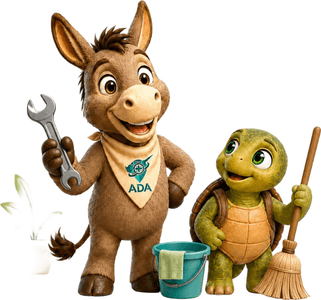
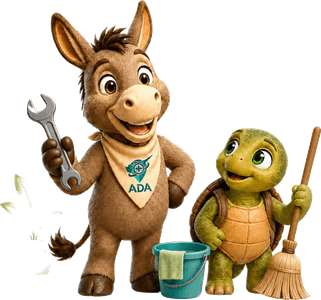
Oli bar option B (full scene) + tutorial waits for the weather chip
- The scene fills the card; art framed in the right 40% (right-anchored, no crop), each on
  its own soft ground. Welcome/services/pets originals were opaque white: cut out by an
  edge-connected flood fill with a feathered edge
- Deep-teal fade (#084B4A 95%) solid to 56%, smoothstep to 0 at 62%; title 20/700 and a
  glass pill 13/500 sit only on the solid part: 8.66:1 / 5.68:1 over white (bound for
  every scene). primaryDark gave the pill 4.67:1, too thin
- Shorter pill copy outside Turkish, fr bar title 'Parlez à Oli' (hrOliBarTitle)
- Tutorial: waits up to 3s for the weather chip; if it never renders, that step is shown
  alone on a later launch instead of being lost

diff --git a/components/home/redesign/OliBar.js b/components/home/redesign/OliBar.js
@@ -1,37 +1,52 @@
 import { useEffect, useRef, useState } from 'react'
 import { View, Text, Image, Animated, TouchableOpacity, StyleSheet, AppState, AccessibilityInfo, useWindowDimensions } from 'react-native'
 import { Ionicons } from '@expo/vector-icons'
-import { colors, type, radii, press } from '../../../constants/theme'
+import { colors, category, radii, press } from '../../../constants/theme'
 import { t } from '../../../constants/i18n'
 
-// ─── The Oli bar (Home v3) ───────────────────────────────────────────────────
-// The whole bar opens the Oli sheet (search lives there, unchanged). Left: "Oli'ye sor" and
-// its subline on primary (white on #0E7C7B = 5.01:1). Right: a white panel that crossfades
-// through the Oli & Maki scenes.
+// ─── The Oli bar, "full scene" (Home v3, option B) ───────────────────────────
+// One card; the rotating Oli & Maki scene fills it, the text sits on a deep-teal fade on the
+// left, and the whole card opens the Oli sheet (search lives there, unchanged).
 //
-// Scenes are the 1080px ORIGINALS, trimmed to the art and exported 300px tall
-// (assets/oli-scenes/). The 360px module badges would draw ~252px tall at 3x — upscaled and
-// soft; these never are, zoom included. Only LIVE modules' scenes: exchange has no module
-// and insurance is dark, and a scene is a quiet promise of a feature.
+// SCENES are the 1080px originals, trimmed to the art and exported 300px tall. They are
+// cut-outs, so each scene = its own soft ground + the art, framed in the RIGHT 40% of the
+// card: right-anchored, feet on the bottom edge, scaled down only if it would be wider than
+// that zone. No scene needs cropping, so none is dropped. Exchange (no module) and insurance
+// (dark, and no 1080px original) are left out: a scene is a quiet promise of a feature.
 //
-// Motion: 4s per scene, 600ms crossfade, a 1.00 → 1.05 zoom across each scene's life. It
-// PAUSES when the bar is scrolled away (`active`), when the app is in the background, and
-// never starts under Reduce Motion (one static scene, no dots advancing).
-export const OLI_BAR_H = 104
-// 164, not ~150: "Demandez à Oli" / "Pregunta a Oli" and most sublines at font scale 1.3 did
-// not fit 150 (labels:check). Title 17/22 × 1 line, subline 12/16 × 2 lines; height is checked too.
-export const OLI_TEXT_W = 164
-export const OLI_FONT_CAP = 1.1   // "Demandez à Oli" is 148.6pt at 1.15 in a 148pt column; 142.1 at 1.1
+// ─── THE FADE CARRIES THE CONTRAST, SO THE TEXT MUST STAY ON ITS SOLID PART ─
+// FADE_COLOR at FADE_ALPHA is solid to FADE_HOLD of the width, then a smoothstep ramp
+// (assets/oli-scenes/fade-ramp.png) reaches 0 at FADE_END. Over a PURE WHITE pixel — the
+// bound for every scene — white text is 8.66:1 on the fade and 5.68:1 on the glass pill
+// (white 16% on top). check-hero-contrast reads these constants; labels:check proves the
+// title and the pill end inside the solid part (TEXT_LEFT … FADE_HOLD·width) in 9 locales.
+// primaryDark (#0A5E5D) gave the pill only 4.67:1 — too thin a margin — hence the deeper teal.
+//
+// Motion: 4s per scene, 600ms crossfade, a 1.00 → 1.05 zoom on the art. PAUSES when scrolled
+// away (`active`), in the background, and never starts under Reduce Motion (one still scene).
+export const OLI_BAR_H = 110
+export const FADE_COLOR = '#084B4A'
+export const FADE_ALPHA = 0.95
+export const FADE_HOLD = 0.56
+export const FADE_END = 0.62
+export const ART_ZONE = 0.4
+export const TEXT_LEFT = 16
+export const PILL_PAD = 10
+export const OLI_FONT_CAP = 1.1
 export const OLI_FONT_CAP_NARROW = 1.0
+const rgba = (hex, a) => `rgba(${[1, 3, 5].map(i => parseInt(hex.slice(i, i + 2), 16)).join(',')},${a})`
+const PAGE = 16   // HomeScreen rBelow paddingHorizontal: the card is window − 2·16 wide
+
 const SCENES = [
-  require('../../../assets/oli-scenes/welcome.png'),
-  require('../../../assets/oli-scenes/health.png'),
-  require('../../../assets/oli-scenes/emergency.png'),
-  require('../../../assets/oli-scenes/events.png'),
-  require('../../../assets/oli-scenes/accommodation.png'),
-  require('../../../assets/oli-scenes/services.png'),
-  require('../../../assets/oli-scenes/pets.png'),
+  { src: require('../../../assets/oli-scenes/welcome.png'),       bg: category.city.bg },
+  { src: require('../../../assets/oli-scenes/health.png'),        bg: category.health.bg },
+  { src: require('../../../assets/oli-scenes/emergency.png'),     bg: category.health.bg },
+  { src: require('../../../assets/oli-scenes/events.png'),        bg: category.explore.bg },
+  { src: require('../../../assets/oli-scenes/accommodation.png'), bg: category.homeLife.bg },
+  { src: require('../../../assets/oli-scenes/services.png'),      bg: category.homeLife.bg },
+  { src: require('../../../assets/oli-scenes/pets.png'),          bg: colors.primaryLight },
 ]
+const RAMP = require('../../../assets/oli-scenes/fade-ramp.png')
 const HOLD = 4000
 const FADE = 600
 const ZOOM = 1.05
@@ -56,7 +71,19 @@ function useForeground() {
   return fg
 }
 
-function SceneCarousel({ active }) {
+// Right-anchored in the art zone, feet on the bottom edge, never wider than the zone.
+function frame(src, cardW) {
+  const { width, height } = Image.resolveAssetSource(src)
+  const aspect = width / height
+  const maxW = cardW * ART_ZONE - 10
+  const h = Math.min(OLI_BAR_H - 6, maxW / aspect)
+  return { position: 'absolute', right: 10, bottom: 0, height: h, width: h * aspect }
+}
+
+export default function OliBar({ lang, onPress, active = true, barRef }) {
+  const { width: winW } = useWindowDimensions()
+  const cardW = winW - PAGE * 2
+  const cap = winW < 350 ? OLI_FONT_CAP_NARROW : OLI_FONT_CAP
   const reduce = useReduceMotion()
   const fg = useForeground()
   const running = active && fg && !reduce
@@ -66,7 +93,6 @@ function SceneCarousel({ active }) {
 
   useEffect(() => {
     if (!running) return
-    // The zoom runs across the scene's whole life (hold + fade out), so it never stops mid-view.
     const zoom = Animated.timing(scale[idx], { toValue: ZOOM, duration: HOLD + FADE, useNativeDriver: true })
     zoom.start()
     const timer = setTimeout(() => {
@@ -80,48 +106,52 @@ function SceneCarousel({ active }) {
     return () => { clearTimeout(timer); zoom.stop() }
   }, [running, idx])
 
+  const title = t('hrOliBarTitle', lang)
+  const pill = t('hrOliAskSub', lang)
   return (
-    <View style={s.panel} pointerEvents="none">
-      {SCENES.map((src, i) => (
-        <Animated.Image key={i} source={src} resizeMode="contain" accessibilityIgnoresInvertColors
-          style={[s.scene, { opacity: opacity[i], transform: [{ scale: scale[i] }] }]} />
+    <TouchableOpacity ref={barRef} collapsable={false} onPress={onPress} activeOpacity={press.card}
+      accessibilityRole="button" accessibilityLabel={`${title}. ${pill}`} style={s.card}>
+      {SCENES.map((sc, i) => (
+        <Animated.View key={i} pointerEvents="none"
+          style={[StyleSheet.absoluteFill, { backgroundColor: sc.bg, opacity: opacity[i] }]}>
+          <Animated.Image source={sc.src} resizeMode="contain" accessibilityIgnoresInvertColors
+            style={[frame(sc.src, cardW), { transform: [{ scale: scale[i] }] }]} />
+        </Animated.View>
       ))}
+
+      <View pointerEvents="none" style={[s.fadeSolid, { width: `${FADE_HOLD * 100}%` }]} />
+      <Image source={RAMP} resizeMode="stretch" pointerEvents="none"
+        style={[s.fadeRamp, { left: `${FADE_HOLD * 100}%`, width: `${(FADE_END - FADE_HOLD) * 100}%` }]} />
+
+      <View style={[s.text, { width: `${FADE_HOLD * 100}%` }]} pointerEvents="none">
+        <Text style={s.title} numberOfLines={1} maxFontSizeMultiplier={cap}>{title}</Text>
+        <View style={s.pill}>
+          <Text style={s.pillText} numberOfLines={1} maxFontSizeMultiplier={cap}>{pill}</Text>
+          <Ionicons name="arrow-forward" size={14} color="#FFFFFF" />
+        </View>
+      </View>
+
       {!reduce && (
-        <View style={s.dots}>
+        <View style={s.dots} pointerEvents="none">
           {SCENES.map((_, i) => <View key={i} style={[s.dot, i === idx && s.dotOn]} />)}
         </View>
       )}
-    </View>
-  )
-}
-
-export default function OliBar({ lang, onPress, active = true, barRef }) {
-  const cap = useWindowDimensions().width < 350 ? OLI_FONT_CAP_NARROW : OLI_FONT_CAP
-  const title = t('homeOliTitle', lang)
-  const sub = t('hrOliAskSub', lang)
-  return (
-    <TouchableOpacity ref={barRef} collapsable={false} onPress={onPress} activeOpacity={press.card}
-      accessibilityRole="button" accessibilityLabel={`${title}. ${sub}`} style={s.bar}>
-      <View style={s.text}>
-        <Ionicons name="chatbubble-ellipses" size={22} color={colors.onPrimary} />
-        <Text style={s.title} numberOfLines={1} maxFontSizeMultiplier={cap}>{title}</Text>
-        <Text style={s.sub} numberOfLines={2} maxFontSizeMultiplier={cap}>{sub}</Text>
-      </View>
-      <SceneCarousel active={active} />
     </TouchableOpacity>
   )
 }
 
-const INSET = 6
 const s = StyleSheet.create({
-  bar:   { height: OLI_BAR_H, borderRadius: radii.widget, backgroundColor: colors.primary,
-           flexDirection: 'row', padding: INSET, overflow: 'hidden' },
-  text:  { width: OLI_TEXT_W - INSET, paddingLeft: 10, justifyContent: 'center', gap: 2 },
-  title: { ...type.sectionHeading, fontSize: 17, lineHeight: 22, color: colors.onPrimary, marginTop: 2 },
-  sub:   { ...type.meta, fontFamily: 'Inter_500Medium', color: colors.onPrimary },
-  panel: { flex: 1, borderRadius: radii.card, backgroundColor: colors.card, overflow: 'hidden' },
-  scene: { position: 'absolute', top: 6, bottom: 12, left: 6, right: 6, width: undefined, height: undefined },
-  dots:  { position: 'absolute', bottom: 5, left: 0, right: 0, flexDirection: 'row', justifyContent: 'center', gap: 4 },
-  dot:   { width: 4, height: 4, borderRadius: 2, backgroundColor: 'rgba(26,43,51,0.18)' },
-  dotOn: { backgroundColor: colors.primary, width: 10 },
+  card:      { height: OLI_BAR_H, borderRadius: radii.widget, overflow: 'hidden', backgroundColor: colors.primaryLight },
+  fadeSolid: { position: 'absolute', top: 0, bottom: 0, left: 0, backgroundColor: rgba(FADE_COLOR, FADE_ALPHA) },
+  fadeRamp:  { position: 'absolute', top: 0, bottom: 0, height: '100%' },
+  text:      { position: 'absolute', top: 0, bottom: 0, left: 0, paddingLeft: TEXT_LEFT, justifyContent: 'center', gap: 10 },
+  title:     { fontSize: 20, lineHeight: 26, fontFamily: 'Inter_700Bold', color: '#FFFFFF' },
+  pill:      { alignSelf: 'flex-start', flexDirection: 'row', alignItems: 'center', gap: 4,
+               paddingHorizontal: PILL_PAD, paddingVertical: 6, borderRadius: radii.pill,
+               backgroundColor: 'rgba(255,255,255,0.16)', borderWidth: 1, borderColor: 'rgba(255,255,255,0.28)' },
+  pillText:  { fontSize: 13, lineHeight: 17, fontFamily: 'Inter_500Medium', color: '#FFFFFF', flexShrink: 1 },
+  dots:      { position: 'absolute', right: 12, bottom: 8, flexDirection: 'row', gap: 3, paddingHorizontal: 5,
+               paddingVertical: 4, borderRadius: radii.pill, backgroundColor: rgba(FADE_COLOR, 0.45) },
+  dot:       { width: 4, height: 4, borderRadius: 2, backgroundColor: 'rgba(255,255,255,0.55)' },
+  dotOn:     { width: 9, backgroundColor: '#FFFFFF' },
 })

diff --git a/constants/i18n.js b/constants/i18n.js
@@ -80,7 +80,9 @@ const translations = {
     hrTileRoutes: "Walking routes",
     hrSoonBadge: "Soon",
     hrOliField: "Ask Oli or search…",
-    hrOliAskSub: "Ask, search, explore",
+    hrOliAskSub: "Ask, search",
+    // Oli bar only: fr "Demandez à Oli" is 152pt at 320dp, the fade's solid part leaves 145.
+    hrOliBarTitle: "Ask Oli",
     hrCoachOliBody: "Ask Oli anything or search ADA — pharmacies, places, events and more.",
     hrCoachWeatherBody: "Today's weather. Tap for UV and the 4-day forecast.",
     hrCoachTilesTitle: "Duty pharmacies & emergency",
@@ -1932,6 +1934,8 @@ const translations = {
     hrSoonBadge: "Yakında",
     hrOliField: "Oli'ye sor veya ara…",
     hrOliAskSub: "Sor, ara, keşfet",
+    // Oli bar only: fr "Demandez à Oli" is 152pt at 320dp, the fade's solid part leaves 145.
+    hrOliBarTitle: "Oli'ye sor",
     hrCoachOliBody: "Oli'ye her şeyi sor ya da ADA'da ara — eczaneler, mekânlar, etkinlikler ve daha fazlası.",
     hrCoachWeatherBody: "Bugünün havası. UV ve 4 günlük tahmin için dokun.",
     hrCoachTilesTitle: "Nöbetçi eczaneler ve acil",
@@ -3754,7 +3758,9 @@ const translations = {
     hrTileRoutes: "مسارات المشي",
     hrSoonBadge: "قريباً",
     hrOliField: "اسأل أولي أو ابحث…",
-    hrOliAskSub: "اسأل، ابحث، استكشف",
+    hrOliAskSub: "اسأل وابحث",
+    // Oli bar only: fr "Demandez à Oli" is 152pt at 320dp, the fade's solid part leaves 145.
+    hrOliBarTitle: "اسأل أولي",
     hrCoachOliBody: "اسأل أولي أي شيء أو ابحث في ADA — الصيدليات والأماكن والفعاليات والمزيد.",
     hrCoachWeatherBody: "طقس اليوم. اضغط لمعرفة مؤشر الأشعة فوق البنفسجية وتوقعات 4 أيام.",
     hrCoachTilesTitle: "الصيدليات المناوبة والطوارئ",
@@ -5358,7 +5364,9 @@ const translations = {
     hrTileRoutes: "Пешие маршруты",
     hrSoonBadge: "Скоро",
     hrOliField: "Спросите Оли или ищите…",
-    hrOliAskSub: "Спросите, найдите, откройте",
+    hrOliAskSub: "Вопрос, поиск",
+    // Oli bar only: fr "Demandez à Oli" is 152pt at 320dp, the fade's solid part leaves 145.
+    hrOliBarTitle: "Спросите Оли",
     hrCoachOliBody: "Спросите Оли о чём угодно или ищите в ADA — аптеки, места, события и многое другое.",
     hrCoachWeatherBody: "Погода на сегодня. Нажмите, чтобы увидеть УФ-индекс и прогноз на 4 дня.",
     hrCoachTilesTitle: "Дежурные аптеки и экстренные службы",
@@ -6959,7 +6967,9 @@ const translations = {
     hrTileRoutes: "Διαδρομές περιπάτου",
     hrSoonBadge: "Σύντομα",
     hrOliField: "Ρώτα τον Oli ή αναζήτησε…",
-    hrOliAskSub: "Ρώτα, ψάξε, εξερεύνησε",
+    hrOliAskSub: "Ρώτα, ψάξε",
+    // Oli bar only: fr "Demandez à Oli" is 152pt at 320dp, the fade's solid part leaves 145.
+    hrOliBarTitle: "Ρώτα τον Oli",
     hrCoachOliBody: "Ρώτα τον Oli οτιδήποτε ή ψάξε στο ADA — φαρμακεία, μέρη, εκδηλώσεις και άλλα.",
     hrCoachWeatherBody: "Ο καιρός σήμερα. Πάτα για τον δείκτη UV και την πρόγνωση 4 ημερών.",
     hrCoachTilesTitle: "Εφημερίες και έκτακτη ανάγκη",
@@ -8556,7 +8566,9 @@ const translations = {
     hrTileRoutes: "Balades à pied",
     hrSoonBadge: "Bientôt",
     hrOliField: "Demandez à Oli ou cherchez…",
-    hrOliAskSub: "Demandez, cherchez, explorez",
+    hrOliAskSub: "Posez, cherchez",
+    // Oli bar only: fr "Demandez à Oli" is 152pt at 320dp, the fade's solid part leaves 145.
+    hrOliBarTitle: "Parlez à Oli",
     hrCoachOliBody: "Demandez n'importe quoi à Oli ou cherchez dans ADA — pharmacies, lieux, événements et plus.",
     hrCoachWeatherBody: "La météo du jour. Touchez pour l'indice UV et les prévisions sur 4 jours.",
     hrCoachTilesTitle: "Pharmacies de garde et urgences",
@@ -10157,7 +10169,9 @@ const translations = {
     hrTileRoutes: "Rutas a pie",
     hrSoonBadge: "Pronto",
     hrOliField: "Pregunta a Oli o busca…",
-    hrOliAskSub: "Pregunta, busca, descubre",
+    hrOliAskSub: "Pregunta, busca",
+    // Oli bar only: fr "Demandez à Oli" is 152pt at 320dp, the fade's solid part leaves 145.
+    hrOliBarTitle: "Pregunta a Oli",
     hrCoachOliBody: "Pregunta a Oli lo que quieras o busca en ADA: farmacias, lugares, eventos y más.",
     hrCoachWeatherBody: "El tiempo de hoy. Toca para ver el índice UV y la previsión de 4 días.",
     hrCoachTilesTitle: "Farmacias de guardia y emergencias",
@@ -11755,7 +11769,9 @@ const translations = {
     hrTileRoutes: "Routen zu Fuß",
     hrSoonBadge: "Bald",
     hrOliField: "Frag Oli oder such…",
-    hrOliAskSub: "Fragen, suchen, entdecken",
+    hrOliAskSub: "Fragen, suchen",
+    // Oli bar only: fr "Demandez à Oli" is 152pt at 320dp, the fade's solid part leaves 145.
+    hrOliBarTitle: "Frag Oli",
     hrCoachOliBody: "Frag Oli alles oder durchsuche ADA – Apotheken, Orte, Events und mehr.",
     hrCoachWeatherBody: "Das Wetter heute. Tippe für UV-Index und 4-Tage-Vorhersage.",
     hrCoachTilesTitle: "Notdienst & Notruf",
@@ -13353,7 +13369,9 @@ const translations = {
     hrTileRoutes: "مسیرهای پیادهروی",
     hrSoonBadge: "بهزودی",
     hrOliField: "از اولی بپرس یا جستجو کن…",
-    hrOliAskSub: "بپرس، جستجو کن، کشف کن",
+    hrOliAskSub: "بپرس و بگرد",
+    // Oli bar only: fr "Demandez à Oli" is 152pt at 320dp, the fade's solid part leaves 145.
+    hrOliBarTitle: "از اولی بپرس",
     hrCoachOliBody: "هر چیزی از اولی بپرس یا در ADA جستجو کن — داروخانهها، مکانها، رویدادها و بیشتر.",
     hrCoachWeatherBody: "هوای امروز. برای شاخص UV و پیشبینی ۴ روزه بزن.",
     hrCoachTilesTitle: "داروخانههای کشیک و اورژانس",

diff --git a/App.js b/App.js
@@ -441,6 +441,9 @@ class BLErrorBoundary extends Component {
   }
 }
 
+const WX_COACH_WAIT_MS = 3000
+const WX_COACH_PENDING = '@trnc_coach_wx_pending'
+
 export default function App() {
   // ─── FOUR INTER WEIGHTS, AND TWO OF THEM ARE A BUG FIX ────────────────────
   //
@@ -683,6 +686,7 @@ export default function App() {
   const mapTabRef          = useRef(null)
   const profileTabRef      = useRef(null)   // redesign: coach mark on the Profil tab
   const weatherChipRef     = useRef(null)   // redesign: coach mark on the hero weather chip
+  const wxCoachTriedRef    = useRef(false)  // the deferred weather coach mark: once per launch
   const menuAnim = useRef(new Animated.Value(260)).current
   const sessionRef = useRef(null)
   const toSignUpRef = useRef(false)
@@ -713,6 +717,15 @@ export default function App() {
     // On-screen basics only. The drawer is now settings, not navigation, so the
     // menu step just highlights the button — it never opens the drawer.
     // Redesign: no drawer, so no menu step; the Profil tab (where settings now live) gets one.
+    // Home v3: the weather chip only exists once weather has loaded. Wait for it briefly;
+    // if it never comes, the tour runs without it and the chip gets its own one-step mark on
+    // a later launch (WX_COACH_PENDING), so the skip holds for this run only.
+    if (REDESIGN) {
+      wxCoachTriedRef.current = true   // a skipped weather step waits for the NEXT launch
+      for (let waited = 0; !weatherChipRef.current && waited < WX_COACH_WAIT_MS; waited += 150) {
+        await new Promise(r => setTimeout(r, 150))
+      }
+    }
     const [menuBtn, search, duty, map, profileTab, weatherChip] = await Promise.all([
       REDESIGN ? null : measureRef(hamburgerRef),
       measureRef(searchRef),
@@ -733,6 +746,7 @@ export default function App() {
       if (map)         steps.push({ ...map,         title: t(EXPLORE_MAP_LIVE ? 'coachExploreTitle' : 'coachMapTitle', lang),
                                                     body:  t(EXPLORE_MAP_LIVE ? 'coachExploreBody'  : 'coachMapBody',  lang) })
       if (profileTab)  steps.push({ ...profileTab,  title: t('hrCoachProfileTitle', lang), body: t('hrCoachProfileBody', lang) })
+      if (!weatherChip) AsyncStorage.setItem(WX_COACH_PENDING, '1').catch(() => {})
       if (steps.length) { setCoachSteps(steps); setShowCoachMarks(true) }
       return
     }
@@ -751,6 +765,23 @@ export default function App() {
     if (profileTab) steps.push({ ...profileTab, title: t('hrCoachProfileTitle', lang), body: t('hrCoachProfileBody', lang) })
     if (steps.length) { setCoachSteps(steps); setShowCoachMarks(true) }
   }
+
+  // The weather step a first run had to skip (weather not loaded in time): shown alone, once,
+  // the next time Home has weather and nothing else is on screen.
+  useEffect(() => {
+    if (!REDESIGN || wxCoachTriedRef.current || !weatherData || activeTab !== 'home'
+      || showCoachMarks || showNotifs || showHomeCityAsk) return
+    wxCoachTriedRef.current = true
+    AsyncStorage.getItem(WX_COACH_PENDING).then(async pending => {
+      if (pending !== '1') return
+      await new Promise(r => setTimeout(r, 400))
+      const chip = await measureRef(weatherChipRef)
+      if (!chip) { wxCoachTriedRef.current = false; return }
+      AsyncStorage.removeItem(WX_COACH_PENDING).catch(() => {})
+      setCoachSteps([{ ...chip, title: t('homeWeatherTitle', lang), body: t('hrCoachWeatherBody', lang) }])
+      setShowCoachMarks(true)
+    }).catch(() => {})
+  }, [weatherData, activeTab, showCoachMarks, showNotifs, showHomeCityAsk])
 
   function handleCoachFinish() {
     setShowCoachMarks(false)
